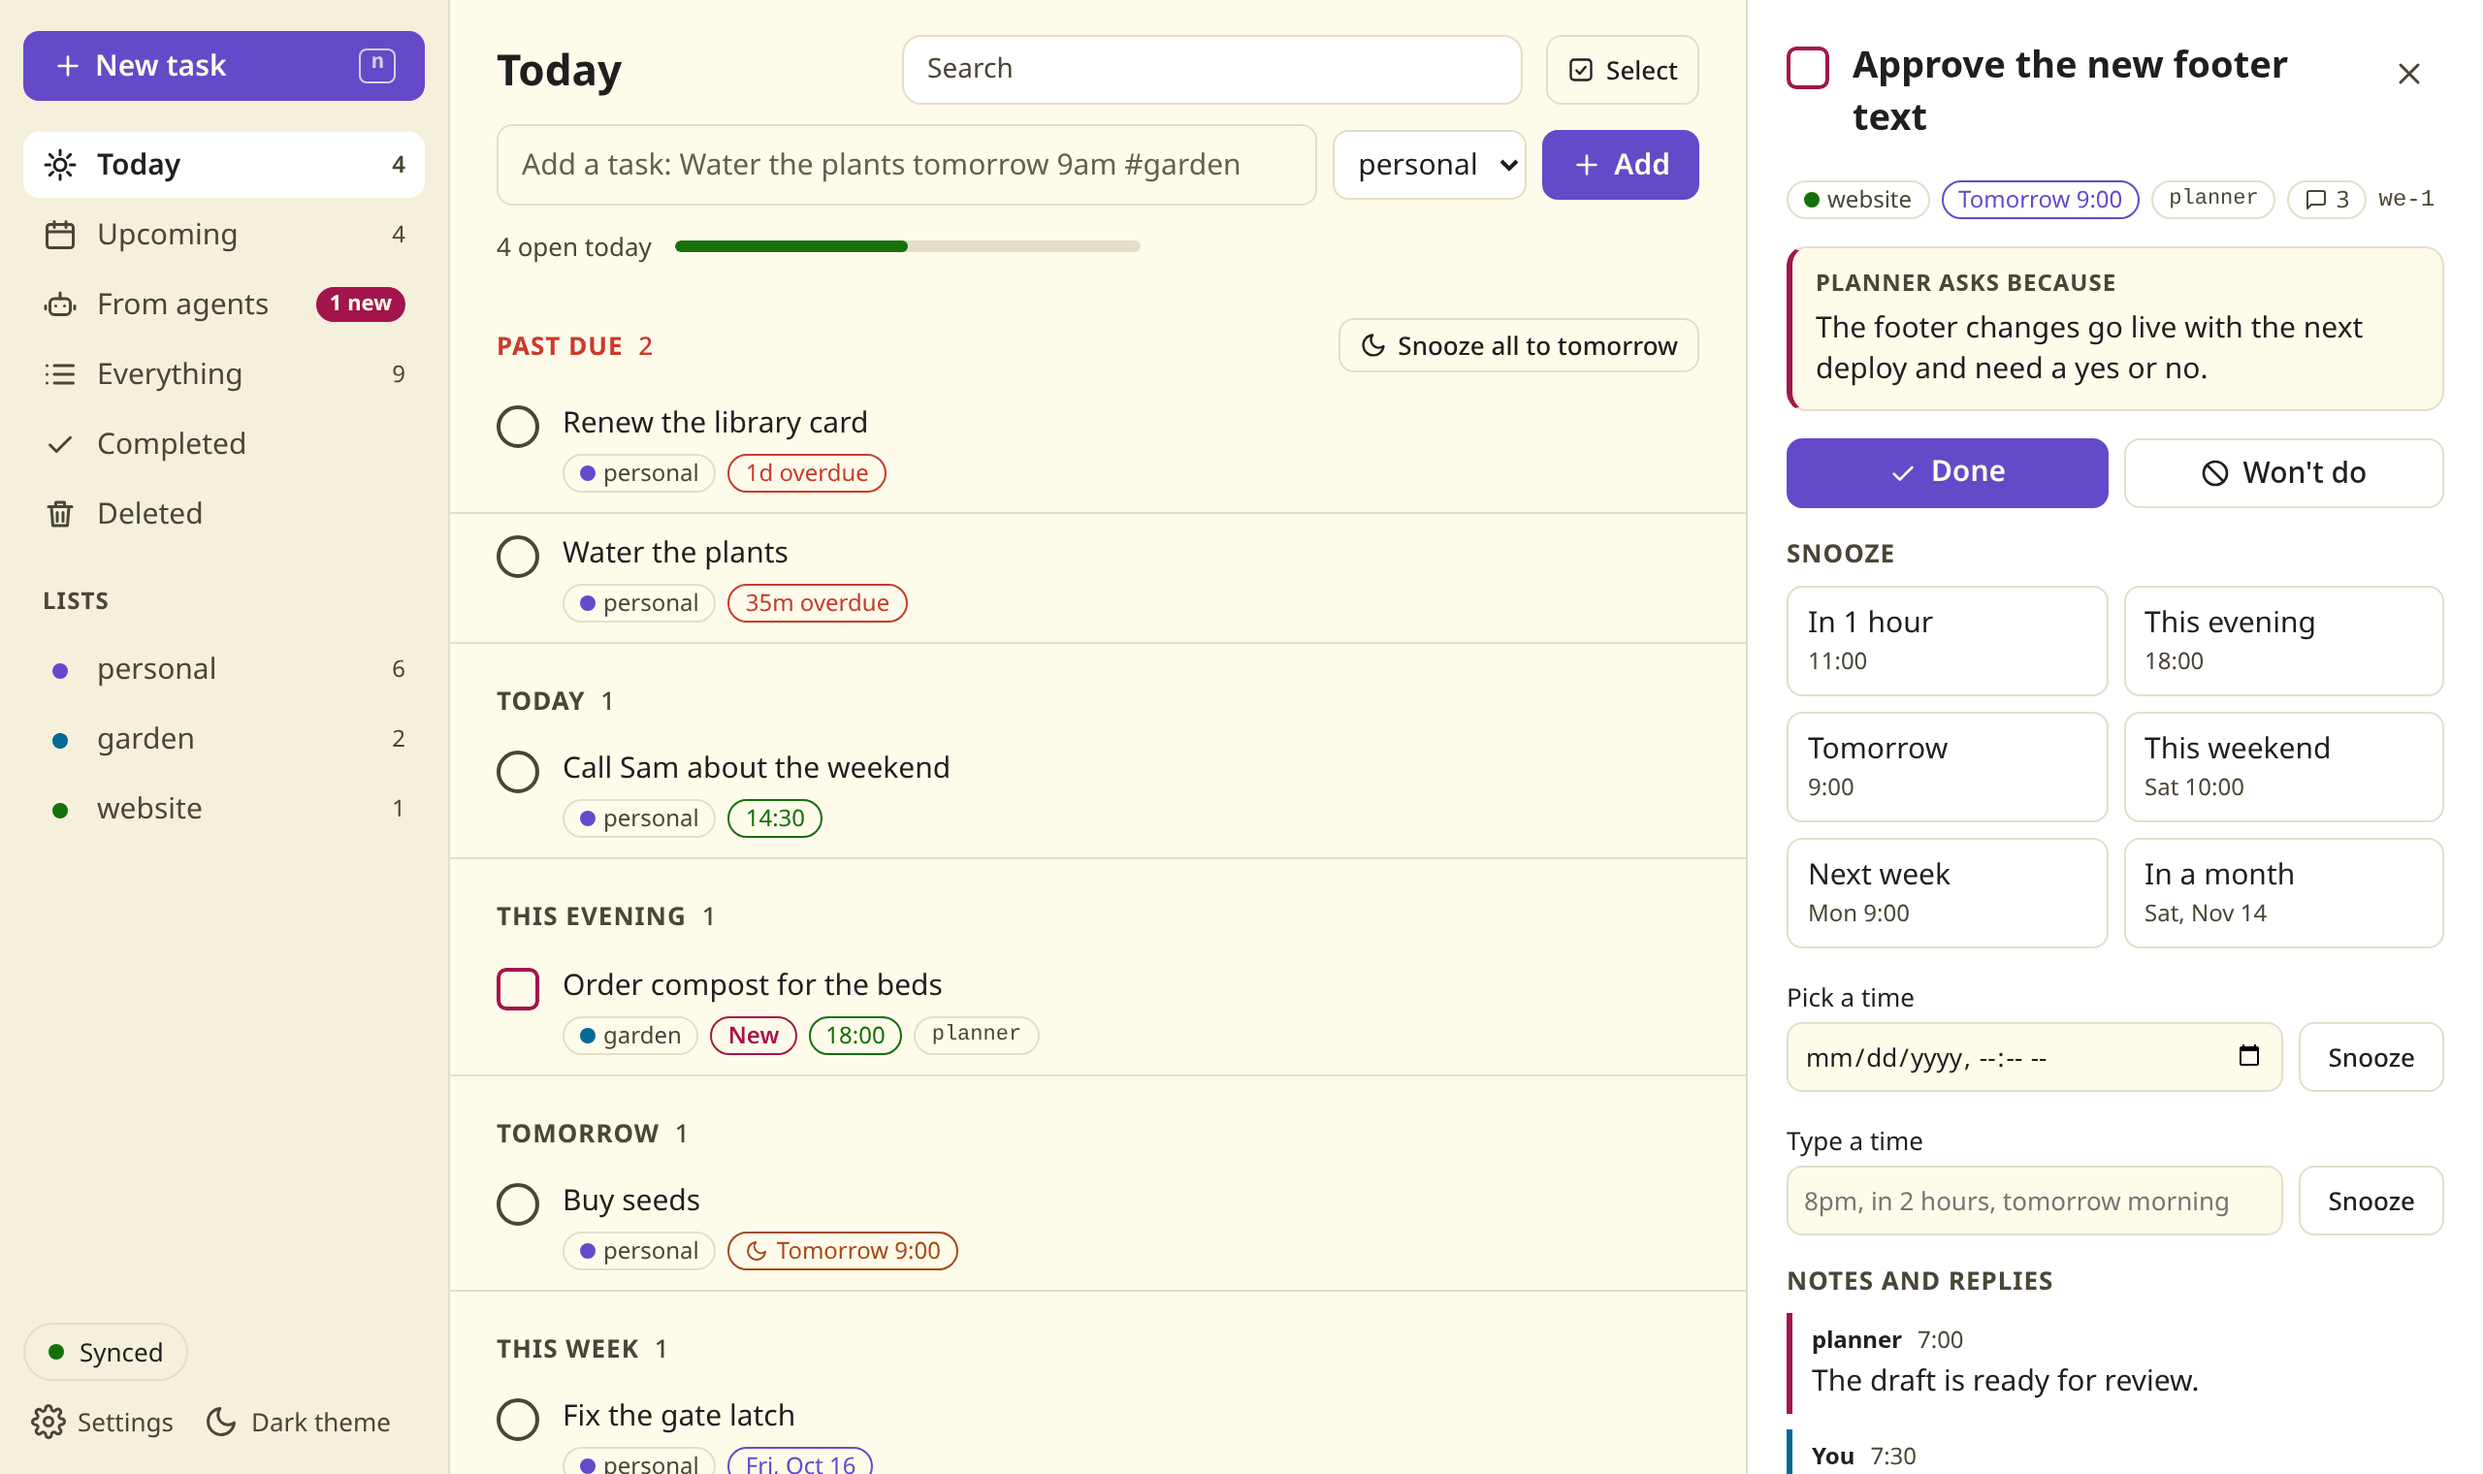
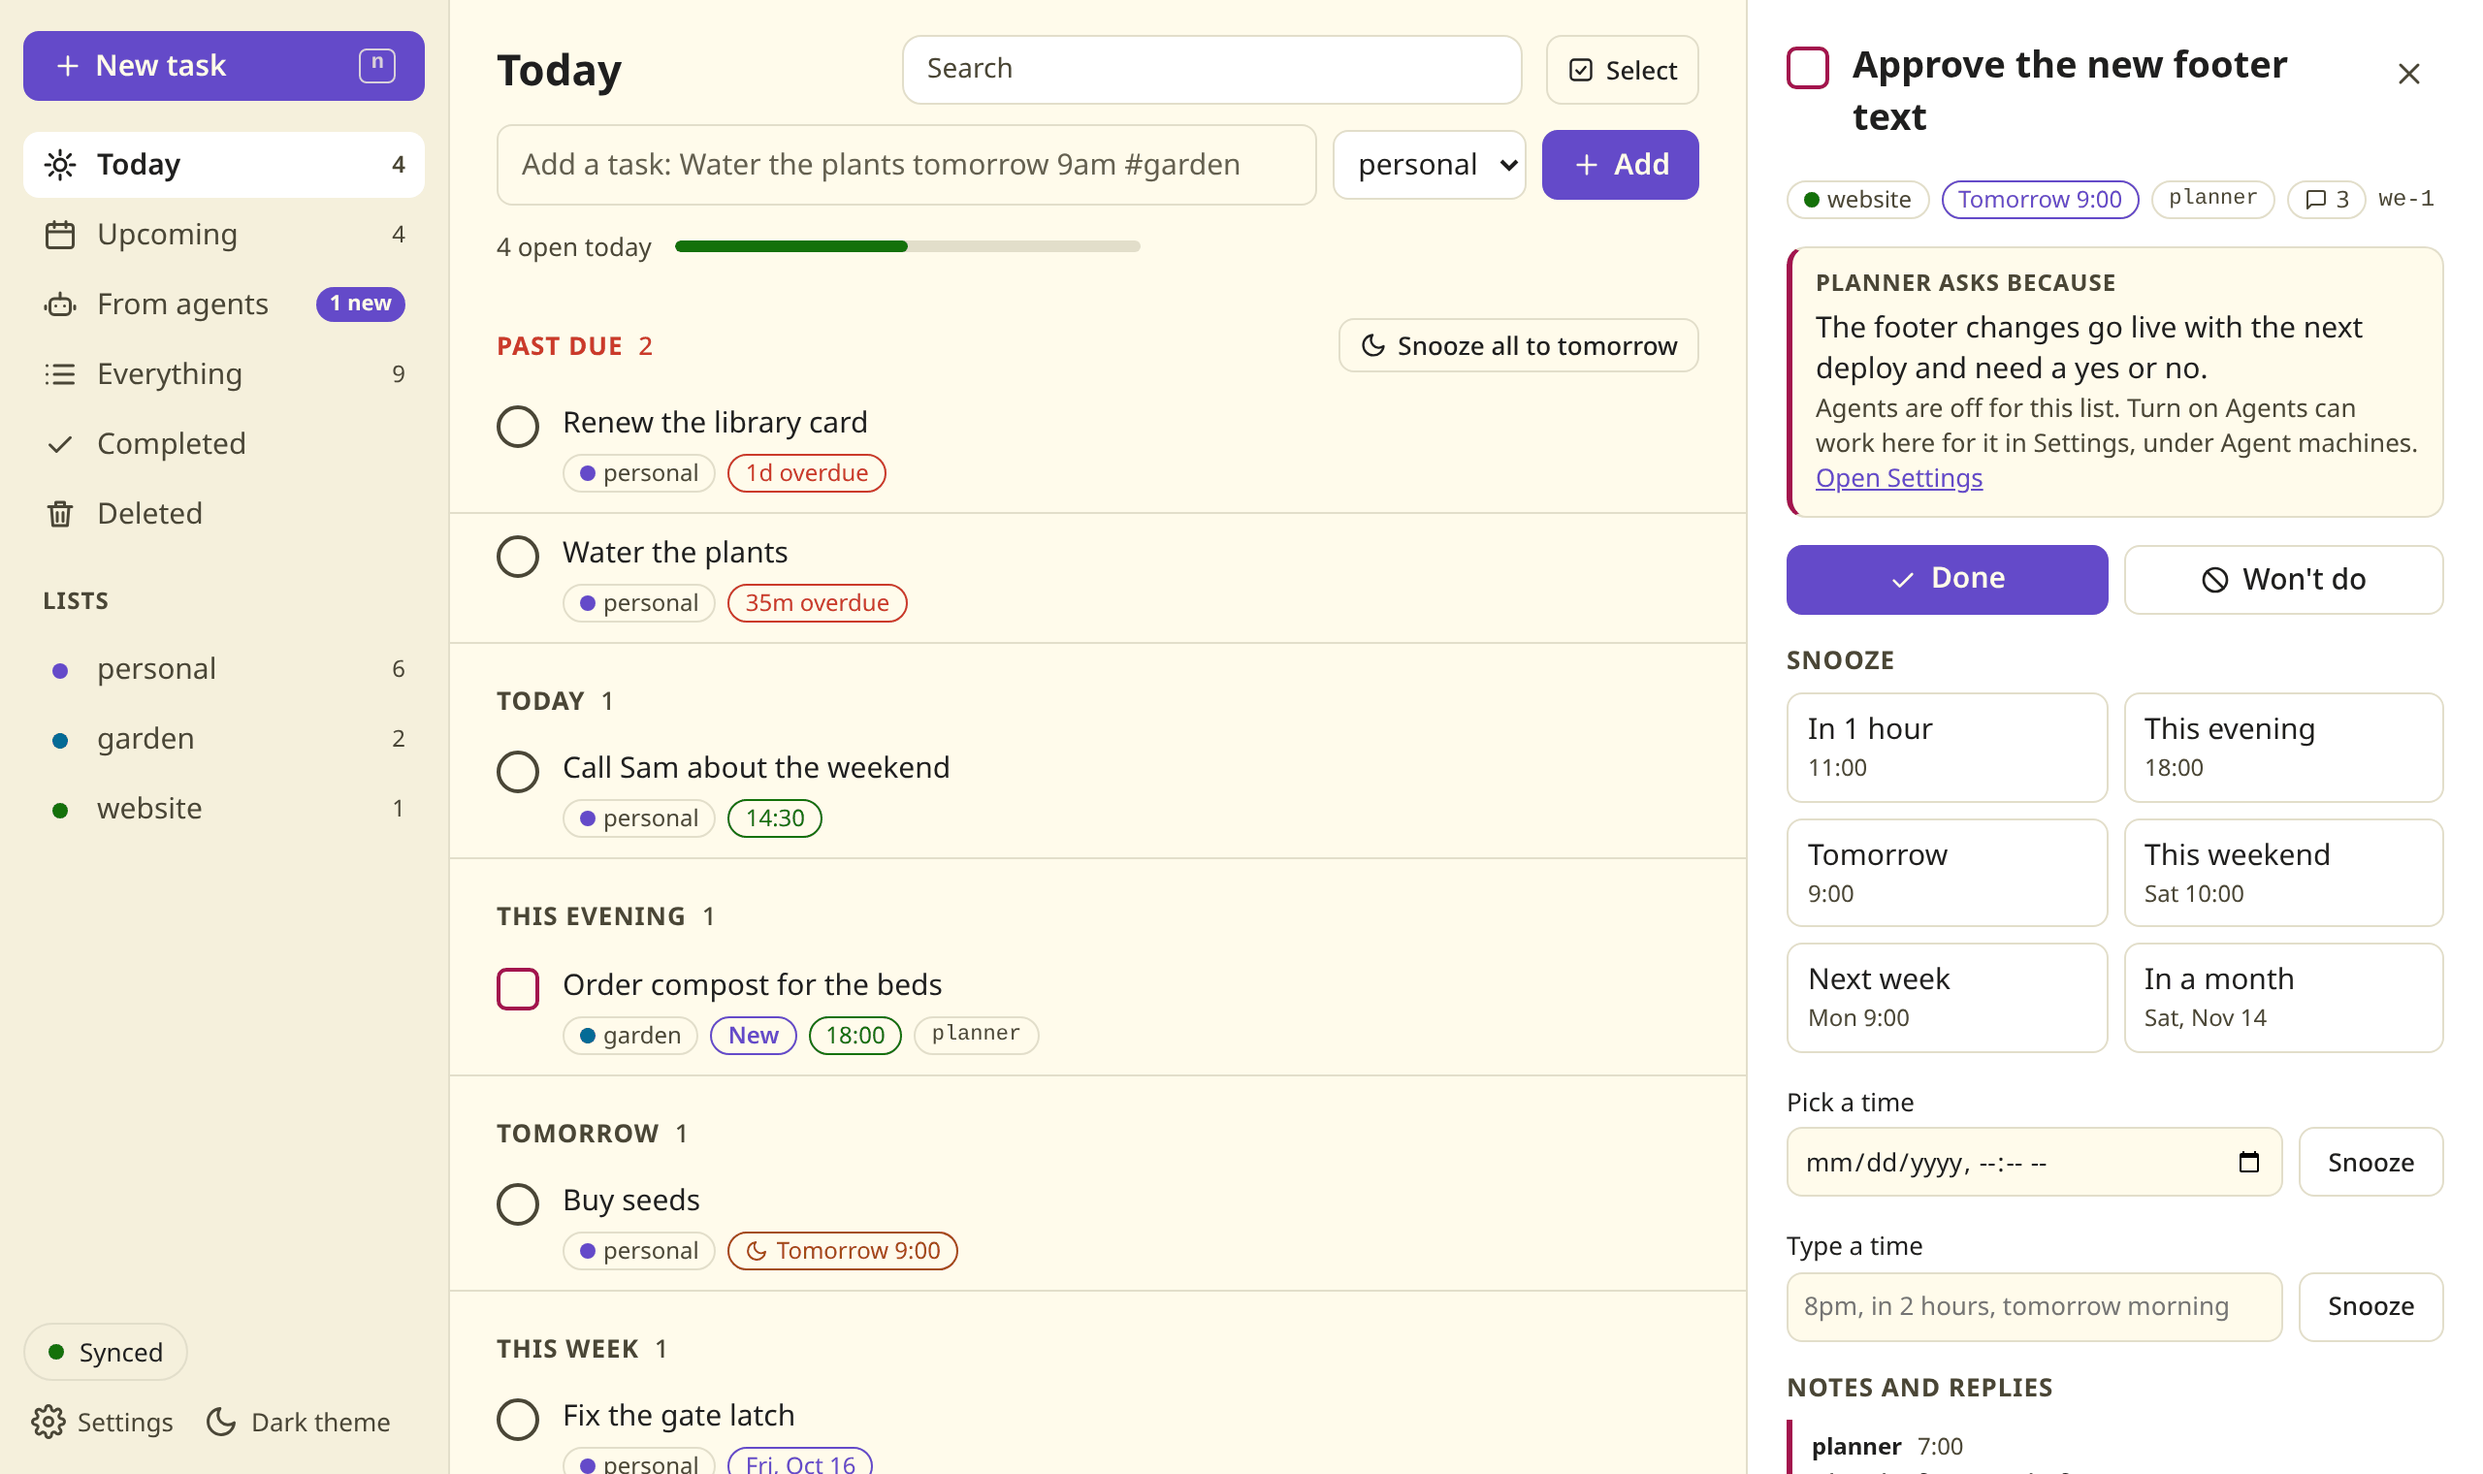
README: hand a task to an agent, with fresh screenshots
Add what the agent runs do for the reader: wake an agent from a task's
note box or the New task switch, the run card's states and buttons, Stop
all, the run-end notification, the per-repo switch and default limits,
and the not-a-sandbox caution, with a link to the setup in
docs/deploy.md. The diagram shows the bridge starting an agent, the
Start here table links the setup, and Contributing points at the
design tokens.

Retake the screenshots from the web test fake hub's invented data, so
they show the colour roles, and add two for the run card and the New
task switch.

diff --git a/README.md b/README.md
@@ -5,8 +5,9 @@ Style guide for this page.
 - Public repo: invented examples only (Alex, Sam, example.com, "Water the plants"). Deployment wording stays generic: "an always-on host", "a Tailscale Service", never one operator's names, paths or ports.
 - Shape: name and bold line, screenshot, picture of how it fits, why it exists, what you can do (one heading and one picture or example each), is this for you, start here table, reference (getting started, contributing, licence).
 - Setup detail lives in docs/deploy.md and the wire contract in docs/api.md; link to them, do not copy. The wizard step list under "Get started" follows web/src/wizard/steps and the step table in docs/deploy.md.
-- Images live in docs/images/ and show invented data only. They come from the web test fake hub (web/test/e2e/fake-hub.ts), shot with Playwright at deviceScaleFactor 2 and reduced to 8-bit PNGs; they are not the visual test baselines. Retake them when the screens they show change, and give each alt text that says what it shows.
-- Nothing else in the repo depends on this page's headings.
+- Images live in docs/images/ and show invented data only. They come from the web test fake hub (web/test/e2e/fake-hub.ts) and its fixed clock, shot with a throwaway Playwright spec at deviceScaleFactor 2 and reduced to 8-bit PNGs; they are not the visual test baselines. The agent images set runs with the fake hub's allowAgents and setRun. Retake them when the screens they show change, and give each alt text that says what it shows.
+- Agent runs: keep the "This is not a sandbox" caution in "Hand a task to an agent" whenever that section exists. Limits and defaults quoted there follow the table in docs/deploy.md, "Wake an agent on a task".
+- Nothing else in the repo depends on this page's headings. The Start here links depend on docs/deploy.md's headings.
 -->
 # Meat Mode
 
@@ -14,7 +15,7 @@ Style guide for this page.
 
 ![The Today list on a desktop: personal to-dos such as "Water the plants" and "Call Sam about the weekend" sit beside a task from an agent, "Approve the new footer text", whose details are open with the agent's reason, Done and Won't do buttons, snooze choices and the notes between you and the agent.](docs/images/desktop-today-detail.png)
 
-Your AI agents work in [beads](https://github.com/gastownhall/beads), an issue tracker that lives in your code repos. When an agent needs you for something it cannot do itself (approve a text, sign in somewhere, make a call), it files a task labelled `human`. Meat Mode gathers those tasks from every repo and every machine into one list, next to your own to-dos. You tick them off, snooze them, say no, or reply with a note, and your answer goes back to the agent in beads.
+Your AI agents work in [beads](https://github.com/gastownhall/beads), an issue tracker that lives in your code repos. When an agent needs you for something it cannot do itself (approve a text, sign in somewhere, make a call), it files a task labelled `human`. Meat Mode gathers those tasks from every repo and every machine into one list, next to your own to-dos. You tick them off, snooze them, say no, or reply with a note, and your answer goes back to the agent in beads. In the repos you allow, one tap also wakes an agent to work on a task, and you watch how it goes on the task itself.
 
 You host it yourself. It runs as one container on any always-on machine you have, such as a home server, a NAS or a Raspberry Pi, so your list and your reminders keep working while the computer your agents run on is asleep.
 
@@ -26,10 +27,11 @@ flowchart LR
   hub -- reminders --> phone
   bridge["Bridge<br/>(on your agent machine)"] -- dials out --> hub
   bridge <--> beads["beads repos<br/>your agents work in"]
+  bridge -- "starts, when you ask" --> agent["An agent<br/>(on its own copy of the repo)"]
 ```
 
 - **The hub** keeps your list, sends reminders and serves the app. Your personal to-dos need nothing else.
-- **The bridge** is a small background service on the machine your agents use. It finds your beads repos, sends their `human` tasks up to the hub and plays your answers back into beads. It always connects out to the hub, so the hub never reaches into your agent machine.
+- **The bridge** is a small background service on the machine your agents use. It finds your beads repos, sends their `human` tasks up to the hub and plays your answers back into beads. When you ask, it starts an agent on a task in a repo you allowed. It always connects out to the hub, so the hub never reaches into your agent machine.
 
 ## Why it exists
 
@@ -47,6 +49,28 @@ Each task from an agent shows why the agent needs you, which project it came fro
   <img src="docs/images/phone-today-dark.png" width="300" alt="The Today list on a phone in the dark theme, grouped into Past due, Today, This evening, Tomorrow and This week, with a New badge on an agent's task and a tab bar at the bottom.">
   <img src="docs/images/phone-detail.png" width="300" alt="The to-do &quot;Water the plants&quot; open on a phone in the light theme: it repeats every day, has a checklist with one of two entries ticked, and offers Done, Edit, Delete and snooze choices.">
 </p>
+
+### Hand a task to an agent
+
+When a task is work an agent can do, wake one from the app. Write a note and tap **Save and ask agent**. The agent reads the task and your notes, then does the work and closes the task, or replies with a question. The task's card shows how it is going:
+
+| The card shows | What you can do |
+|---|---|
+| **working**, with what the agent is doing | **Send to** the agent: a note it reads at its next step. **Stop** the run. |
+| **waiting** on you, after the agent replied | **Reply to** the agent. Your reply wakes it again. |
+| **done**, when the agent closed the task | Nothing; it is off your list. |
+| **stopped**, with the reason (you stopped it, a time, budget or usage limit, an error) | **Retry**. |
+
+In **New task**, the **An agent starts on it** switch hands a task you add straight to an agent. It starts off every time. **Stop all** in Settings ends every run at once. When a run you did not stop ends, you get one notification saying the agent replied, finished or stopped, with **Reply** and **Open** buttons.
+
+<p>
+  <img src="docs/images/agent-run-sheet.png" width="300" alt="The agent task &quot;Approve the new footer text&quot; open on a desktop. Its card reads &quot;planner replied: Asked which wording to use&quot;, and under the notes a pink button reads Reply to planner.">
+  <img src="docs/images/new-task-agent.png" width="450" alt="The New task form with &quot;Find a cheaper soil sensor&quot; typed in, the garden list chosen and the switch &quot;An agent starts on it&quot; turned on, so the Add button reads Add and ask agent.">
+</p>
+
+Agents work only where you let them. Each machine lists its repos in Settings, and each repo has an **Agents can work here** switch that starts off. Only your own taps start an agent, and personal to-dos have none. The bridge runs one agent per task, by default Claude Code, and gives each task its own Git worktree (a separate checkout of the repo). It stops a run after 30 minutes or $2 of usage, allows 10 runs per task and 2 at once on the machine; you can change each limit.
+
+> **This is not a sandbox.** The default agent runs commands as you, in your home folder, with your credentials, and asks no permission first. It is told never to send, post, spend, delete or push for you, but nothing enforces that. Switch agents on only in repos where you would let an agent work unattended. Setup, limits and where runs keep their files: [Wake an agent on a task](docs/deploy.md#wake-an-agent-on-a-task).
 
 ### Type a to-do the way you would say it
 
@@ -92,6 +116,7 @@ It is not:
 |---|---|
 | Run the hub and set it up | [docs/deploy.md](docs/deploy.md) |
 | Connect the machine your agents run on | [Install the bridge](docs/deploy.md#3-install-the-bridge-on-the-agent-machine) and [Pair](docs/deploy.md#4-pair) |
+| Let an agent work on a task you hand it | [Wake an agent on a task](docs/deploy.md#wake-an-agent-on-a-task) |
 | Let agents add to your list from scripts | [Let agents add to your personal list](docs/deploy.md#let-agents-add-to-your-personal-list) |
 | Put it behind your own domain with a password | [Behind a reverse proxy](docs/deploy.md#behind-a-reverse-proxy) |
 | Build against the hub's API | [docs/api.md](docs/api.md) |
@@ -108,7 +133,7 @@ Start the hub container ([docs/deploy.md](docs/deploy.md#1-run-the-hub)) and ope
 5. **Reminders**: allow notifications and get a test reminder on this device, and on ntfy if you use it.
 6. **Appearance**: dark, light, or follow the device.
 7. **First to-do**: type `Water the plants tomorrow 6pm` and watch quick add read the date.
-8. **Agent machines** (optional): pair the machine your agents work on, choose which repos show up, and copy instructions that tell your agents how to raise tasks for you.
+8. **Agent machines** (optional): pair the machine your agents work on, choose which repos show up and where agents may work, and copy instructions that tell your agents how to raise tasks for you.
 
 Skip any step; each one is also in Settings, where you can run setup again. Other devices get just the device steps.
 
@@ -116,7 +141,7 @@ Skip any step; each one is also in Settings, where you can run setup again. Othe
 
 Run `scripts/setup.sh` after cloning. This repo is public; read `AGENTS.md` before committing anything.
 
-Toolchain versions are pinned in `mise.toml` (Go, Node, pnpm).
+Toolchain versions are pinned in `mise.toml` (Go, Node, pnpm). The web app picks every colour by what it means; see [docs/design-tokens.md](docs/design-tokens.md).
 
 ```sh
 pnpm --dir web install && pnpm --dir web build   # frontend into web/static
